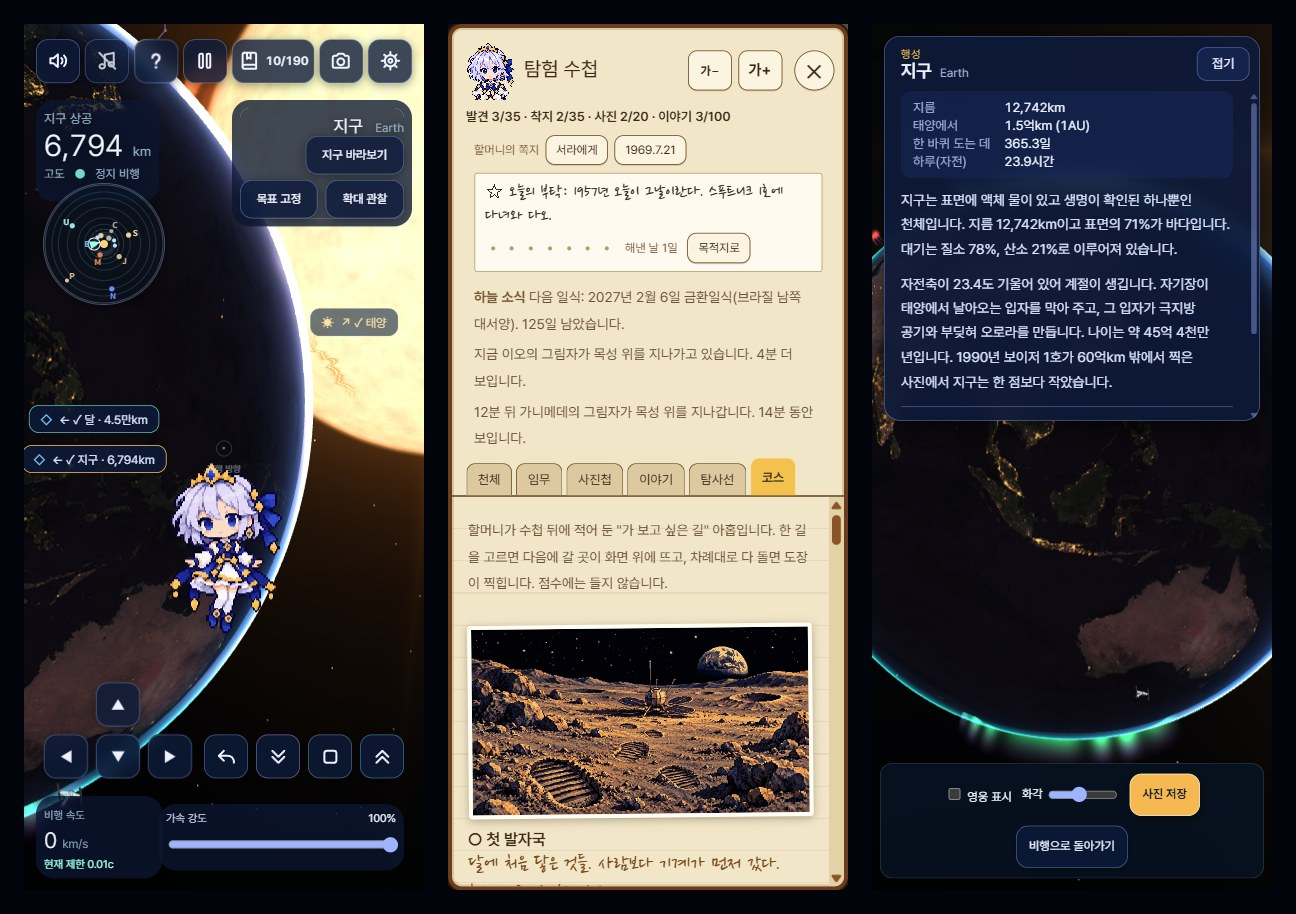
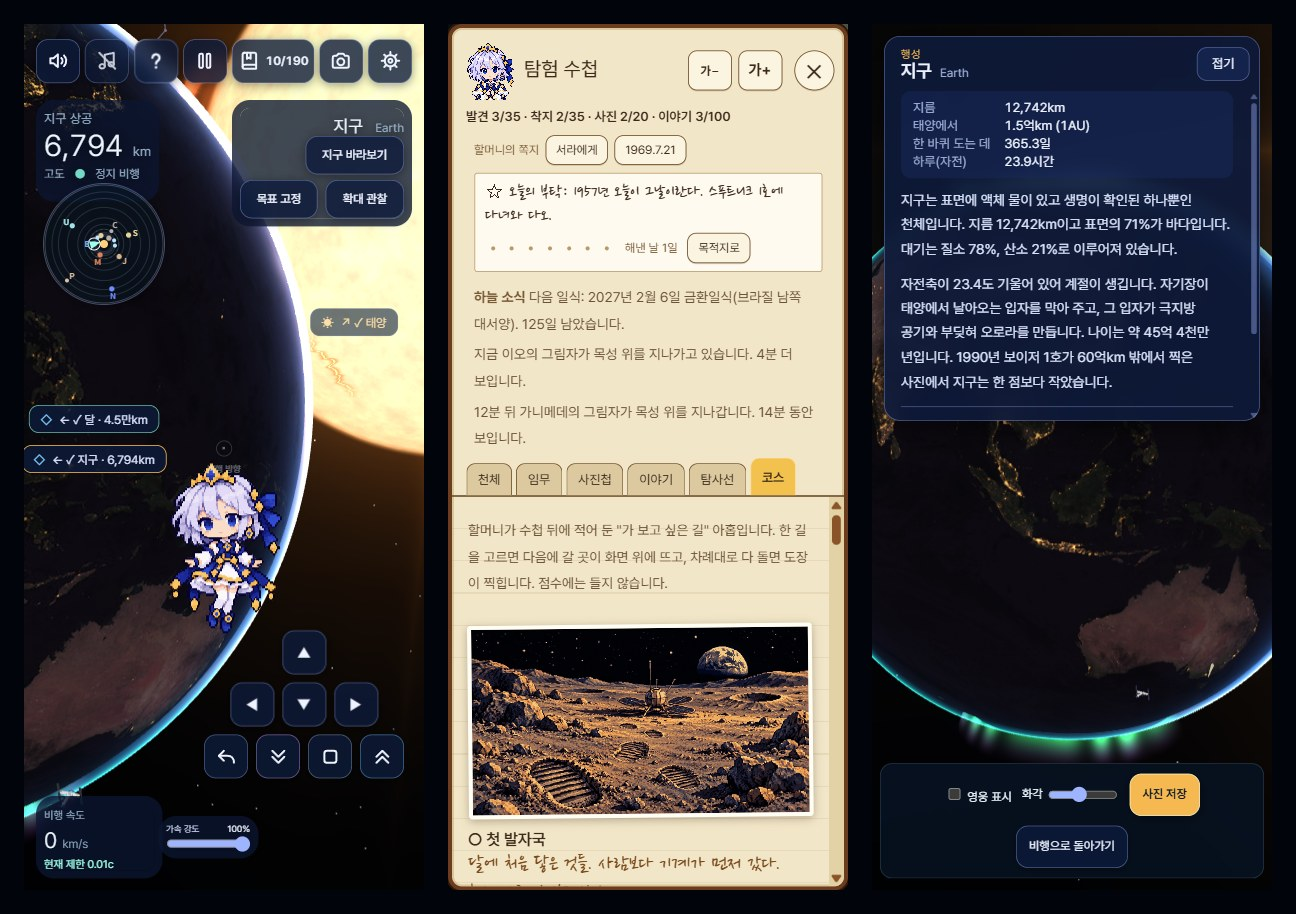
v0.1.93: on a phone the slide pad stands at the right, over the row of four (the user's drawing); the README's picture retaken

Changed region(s): [[0.0309, 0.7352, 0.3086, 0.9497], [0.1543, 0.674, 0.3086, 0.7965]]

diff --git a/src/core/changes.js b/src/core/changes.js
@@ -3,6 +3,7 @@
 // is heard goes in here; how it was done does not. Add a line at the top of its day
 // when something a player would notice is changed.
 export const CHANGES = [
+  { day: '2026-10-05', text: '휴대전화에서 이동 단추 넷이 오른쪽, 비행 단추 넷 바로 위로 옮겨 갔습니다.' },
   { day: '2026-10-05', text: '화면 아래의 가속 강도 막대를 아주 작게 줄였습니다.' },
   { day: '2026-10-05', text: '행성 가까이 가면 그 행성의 위성들도 화면 가장자리에 화살표와 거리로 보입니다.' },
   { day: '2026-10-05', text: '목성 구름에 세로로 난 밝은 틈과 띠 경계의 점선을 없앴습니다.' },

diff --git a/style.css b/style.css
@@ -3206,11 +3206,13 @@ body.rear.touch #reticle span {
 #slideRight::before { transform:rotate(90deg); }
 
 @media (max-width: 480px) {
+  /* On a phone the pad stands at the right, over the row of four and centred on it
+     (the user's drawing of 2026-10-05; it stood at the left, over the speed). */
   #slidePad {
     --key:var(--tap);
     position:absolute;
-    left:0;
-    bottom:92px;
+    right:calc((var(--tap) + 8px) / 2);
+    bottom:calc(92px + var(--tap) + 8px);
   }
 }
 

diff --git a/docs/Space-Oddity-상세기획서.md b/docs/Space-Oddity-상세기획서.md
@@ -1252,6 +1252,10 @@ build/art-order.sh <작업 폴더> <주문 글.txt> <받을 파일.png> [참고 
 - 글자 선택 막기(2026-10-03): 휴대전화에서 전진 단추를 길게 누르면 단추의 글자가 선택됐다. 모든 단추와 비행 화면, 안내 줄, 알림, 말풍선에 `user-select:none` 과 `-webkit-touch-callout:none` 을 걸었다. 수첩과 카드의 읽을 글은 그대로 선택된다.
 - 휴대전화: 버튼이 겹치지 않고 가로 스크롤이 없다. 375px 폭에서 머리글 버튼 다섯 개가 한 줄에 들어가고 제목은 두 줄로 접힌다.
 
+#### 휴대전화의 이동 단추를 오른쪽으로 (2026-10-05, v0.1.93)
+
+사용자가 "아래 메뉴들 배치 좀 예쁘게 해바바"라고 해서 세 안을 나란히 보였는데(`assets/아래-배치-시안.jpg`) 고르지 않고, 화면에 직접 그려 보냈다: 왼쪽의 이동 단추 넷을 오른쪽, 비행 단추 넷의 위로. 그대로 했다. 이동 단추는 비행 단추 줄의 가운데에 맞춰 그 8px 위에 선다(`#slidePad`: `right:(--tap + 8px)/2`, `bottom:92px + --tap + 8px`). 왼쪽 아래에는 속도와 작은 가속 막대만 남는다. 폭 400과 360에서 보았고, 이동 단추의 윗변은 서라의 발 아래에 있다. 넓은 화면은 그대로다. README의 화면 사진을 다시 찍었다.
+
 #### 가속 강도 막대를 아주 작게 (2026-10-05, v0.1.92)
 
 사용자가 막대의 화면을 보내며 "이거 줄이자. 아주 작게"라고 했다. 휴대전화에서 화면 폭에서 130px를 뺀 만큼(폭 400에서 250px), 넓은 화면에서 280px였다. 이제 어느 화면에서나 폭 84px다. 이름과 값은 9px 글씨로 한 줄, 그 아래 막대의 높이는 14px, 넓은 화면의 "0% / 100%" 줄은 뺐다(`footer .throttle`). 휴대전화에서는 손가락으로 끌기에 좁다: 84px에 0 → 100%가 다 들어 있다.

diff --git a/README.md b/README.md
@@ -4,7 +4,7 @@
 
 주소: https://destory1984.github.io/oddity_claude/
 
-![휴대전화 화면 셋. 왼쪽은 지구의 밤 쪽 6,794km 위의 비행 화면으로, 지구 가장자리로 해가 떠오르고 가운데에 캐릭터 서라가 있다. 아래 왼쪽에 방향키 모양의 이동 단추 넷, 오른쪽에 그림 단추 넷(뒤 보기, 후진, 정지, 전진)이 있다. 가운데는 탐험 수첩의 코스 갈래, 오른쪽은 지구를 확대 관찰하며 읽을거리를 띄운 화면이다](docs/screenshot.jpg)
+![휴대전화 화면 셋. 왼쪽은 지구의 밤 쪽 6,794km 위의 비행 화면으로, 지구 가장자리로 해가 떠오르고 가운데에 캐릭터 서라가 있다. 아래 오른쪽에 방향키 모양의 이동 단추 넷과 그 밑에 그림 단추 넷(뒤 보기, 후진, 정지, 전진)이 있고, 왼쪽에 속도와 작은 가속 막대가 있다. 가운데는 탐험 수첩의 코스 갈래, 오른쪽은 지구를 확대 관찰하며 읽을거리를 띄운 화면이다](docs/screenshot.jpg)
 
 만든 이유: 2026.9.30 새벽에 코딩을 하다가 문득 "우주멍"을 때리고 싶었다.
 
@@ -71,7 +71,7 @@
 
 - 화면 드래그: 방향 전환
 - 그림 단추 넷(오른쪽 아래): 뒤 보기, 후진, 정지, 전진
-- 이동 단추 넷(왼쪽 아래): 누르는 동안 위, 아래, 왼쪽, 오른쪽으로 미끄러진다
+- 이동 단추 넷(그림 단추 바로 위): 누르는 동안 위, 아래, 왼쪽, 오른쪽으로 미끄러진다
 - 이름표를 누르면 그것을 고른다. "바라보기"는 그쪽으로 돌고, "목표 고정"은 화면에 붙잡아 두고, "확대 관찰"은 가까이에서 돌려 보며 읽을거리를 띄운다
 - 미니맵을 누르면 큰 지도가 열려 갈 곳을 고르고 순간 이동한다
 - 위쪽 단추 일곱: 효과음, 배경 음악, 도움말, 일시 정지, 수첩, 사진, 설정
